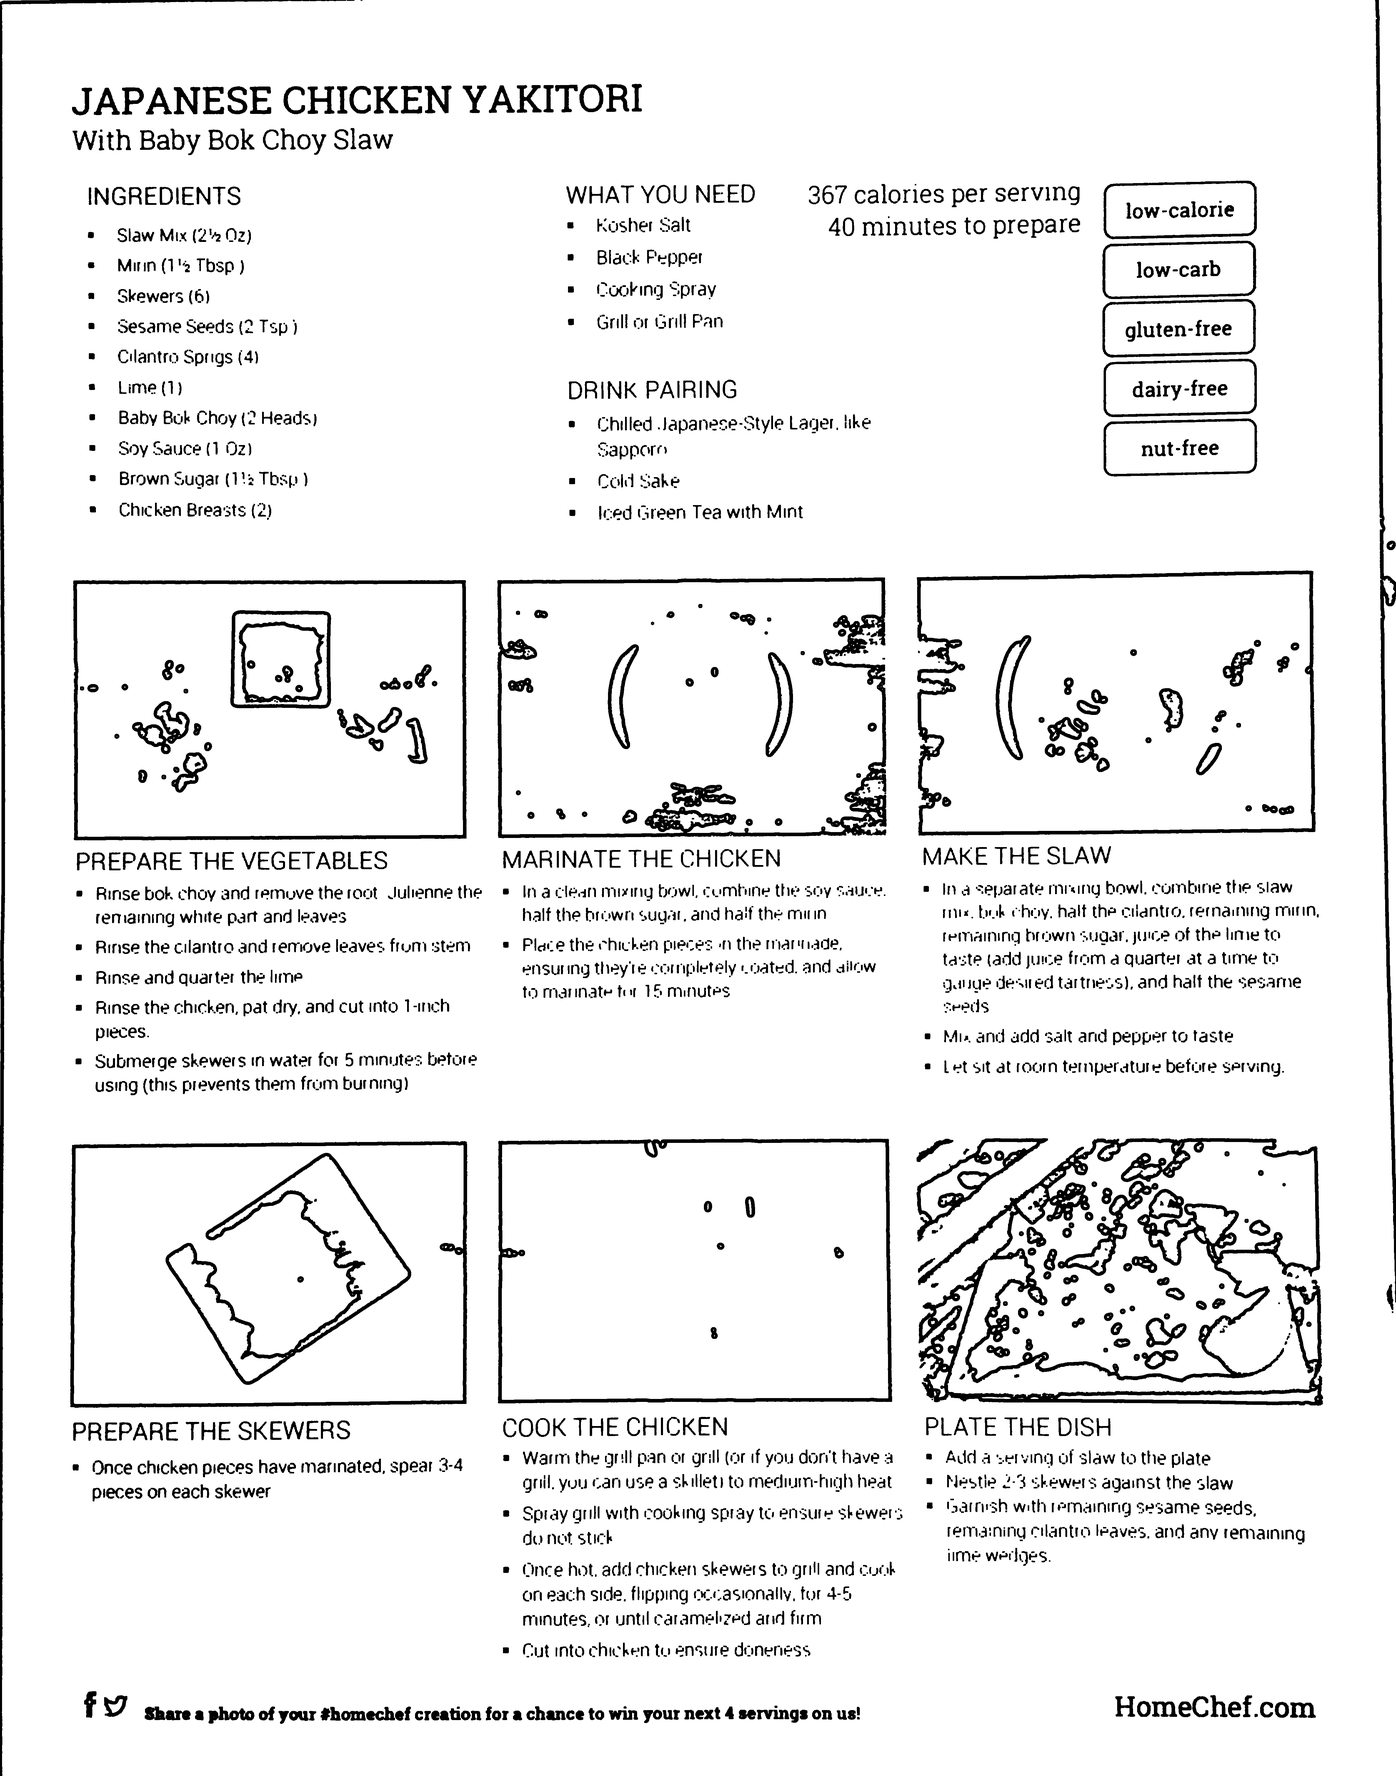
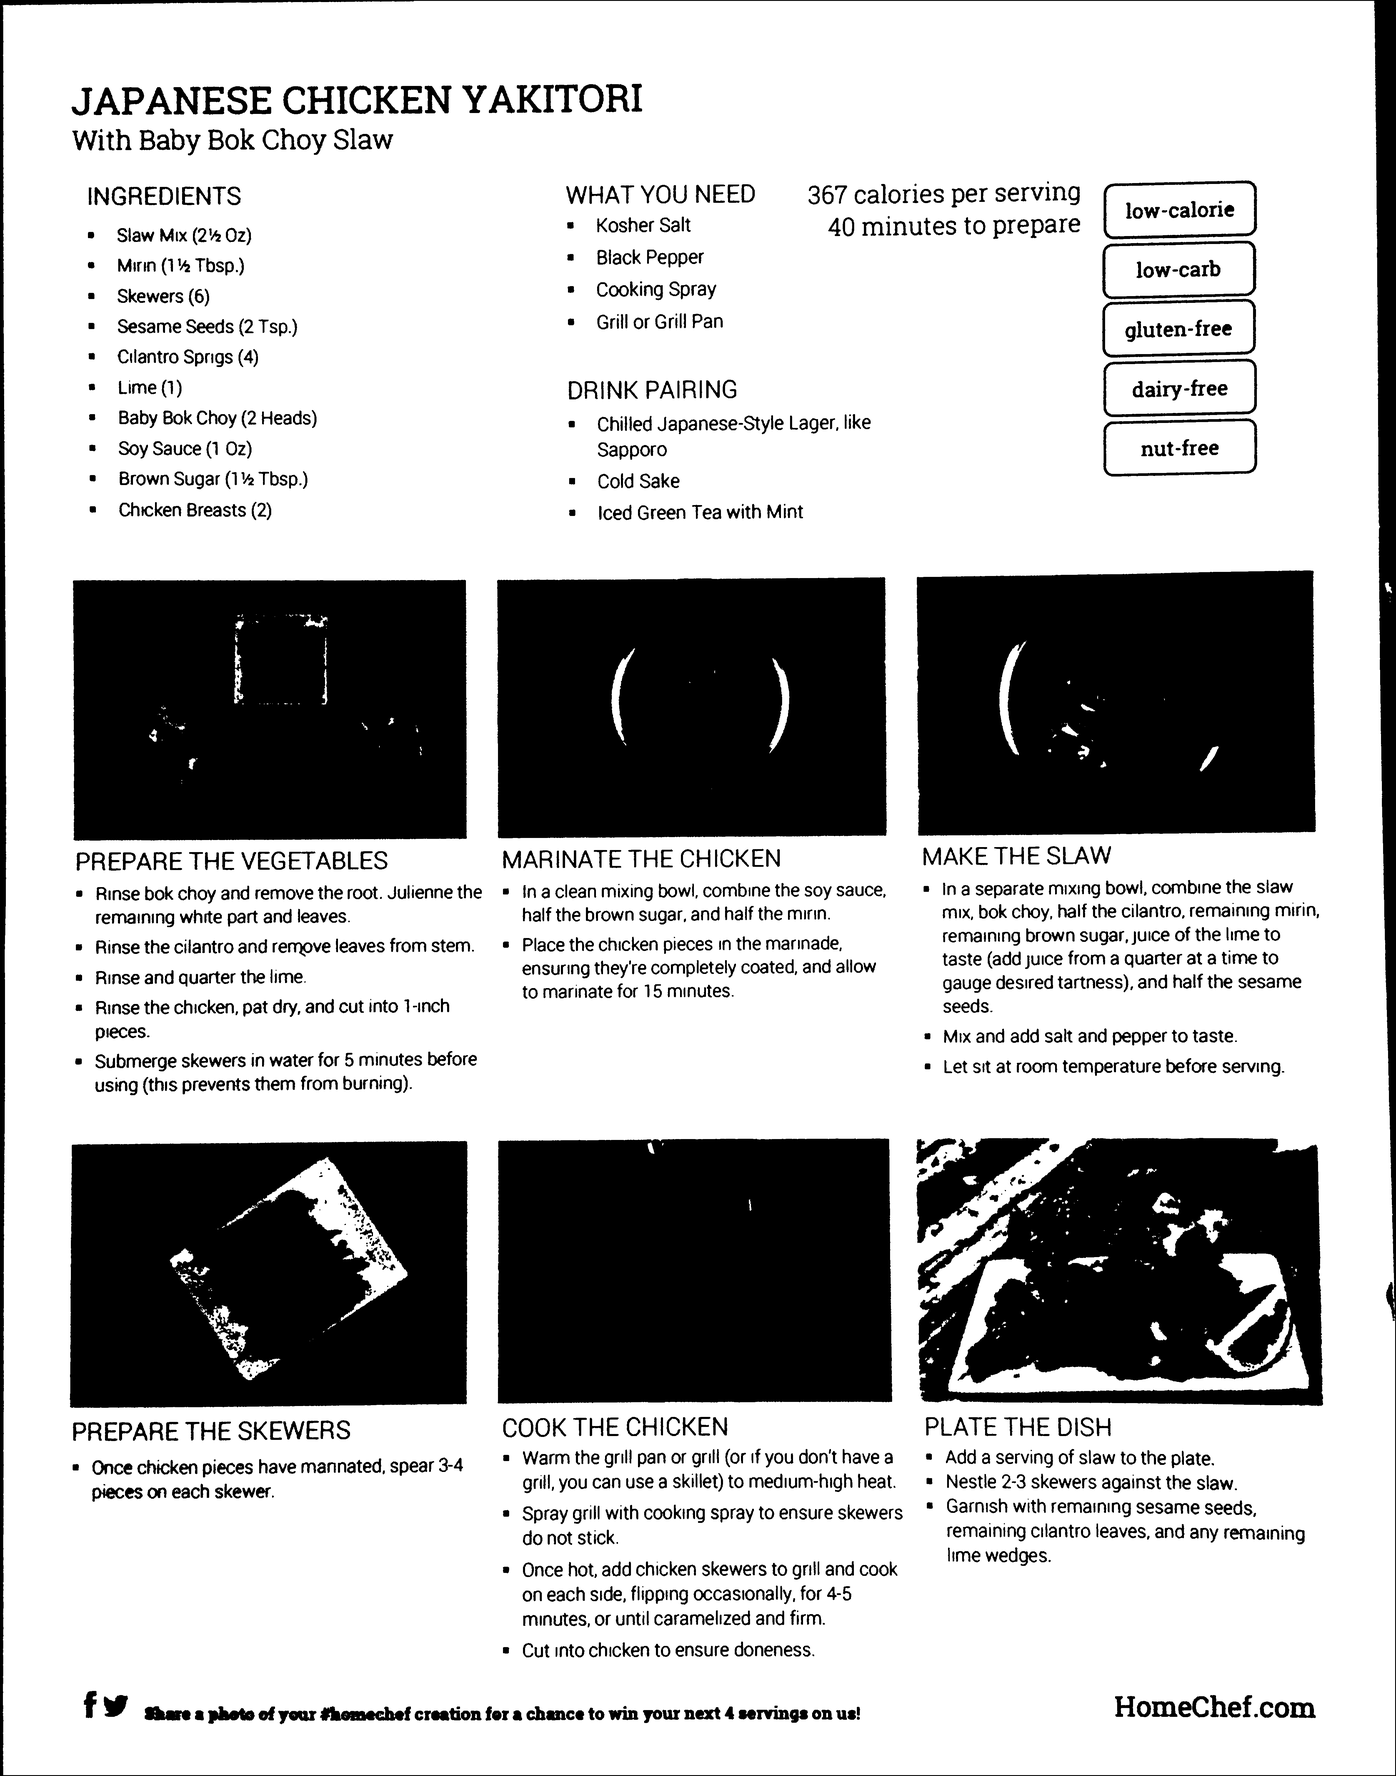
got __str__ and __repr__ looking good

Changed region(s): [[0.0312, 0.0, 1.0, 0.6543], [0.0312, 0.6231, 0.9667, 0.8101], [0.0, 0.6854, 1.0, 1.0]]

diff --git a/image_to_process.py b/image_to_process.py
@@ -7,18 +7,36 @@
 
 import cv2
 import numpy as np
-from typing import Callable
+from typing import Callable, List, Tuple, Dict, Any
+from textwrap import dedent
 
 
 def invert_colors_for_processing(processing_func:Callable) -> Callable:
     '''Decorator function to invert pixel values, call processing function, then invert pixel values back to original.'''
-    def wrapper_function(self, *args, **kwargs) -> None:
-        self.ImageData = cv2.bitwise_not(self.ImageData)
-        self.InvertedColor = True
-        processing_func(self, *args, **kwargs)
-        self.ImageData = cv2.bitwise_not(self.ImageData)
-        self.InvertedColor = False
+    def wrapper_function(image_object:object, *args, **kwargs) -> None:
+        image_object.ImageData = cv2.bitwise_not(image_object.ImageData)
+        image_object.InvertedColor = True
+        processing_func(image_object, *args, **kwargs)
+        image_object.ImageData = cv2.bitwise_not(image_object.ImageData)
+        image_object.InvertedColor = False
     return wrapper_function
+
+def add_transformation(transformation_function_name:str) -> Callable:
+    '''Decorator function to add values into the Transformations property to keep track of which Transformations have been performed on the image.'''
+    def perform_transformation(processing_func:Callable) -> Callable:
+        def wrapper_function(image_object:object, *args, **kwargs) -> None:
+            try:
+                processing_func(image_object, *args, **kwargs)
+            except Exception as e:
+                raise TransformationFailedError(str(e), '\nThe transformation failed....Run the debugger to investigate further.', image_object.ImagePath)
+            else:
+                print(transformation_function_name, args, kwargs, sep='\n')
+                image_object.Transformations = (transformation_function_name, args, kwargs)
+        return wrapper_function
+    return perform_transformation
+
+def indent(number_of_single_spaces:int=4) -> str:
+    return ' ' * number_of_single_spaces
 
 class ImageToProcess():
     '''Object representing an image file to be processed to improve readability for Tesseract OCR.'''
@@ -30,19 +48,25 @@ class ImageToProcess():
                 - image_path : path to image being processed
         '''
         self._image_path:str = image_path
-        self._image_data:cv2.typing.MatLike = cv2.imread(image_path)
+        self._image_data:List[cv2.typing.MatLike] = [cv2.imread(image_path), cv2.imread(image_path)]
         self._inverted_color:bool = False
+        self._transformations:Dict[int, Tuple[str, List[Tuple[Any]|Dict[str, Any]]]]|None = None
 
     @property
     def ImagePath(self) -> str:
         return self._image_path
 
     @property
+    def OriginalImageData(self) -> cv2.typing.MatLike:
+        '''If image is resized, then original image data will be resized to match.'''
+        return self._image_data[0]
+
+    @property
     def ImageData(self) -> cv2.typing.MatLike:
-        return self._image_data
+        return self._image_data[1]
     @ImageData.setter
-    def ImageData(self, new_data_value):
-        self._image_data = new_data_value
+    def ImageData(self, new_data_value:cv2.typing.MatLike) -> None:
+        self._image_data[1] = new_data_value
 
     @property
     def InvertedColor(self) -> bool:
@@ -51,13 +75,113 @@ class ImageToProcess():
     def InvertedColor(self, bool_value:bool) -> None:
         self._inverted_color = bool_value
 
+    @property
+    def Transformations(self) -> Dict[int, Tuple[str, List[Tuple[Any]|Dict[str, Any]]]]|None:
+        return self._transformations
+    @Transformations.setter # transformation_function_name:str='', arguments:Tuple[Any]='', keywords:Dict[str, Any]=''
+    def Transformations(self, transformation_info:Tuple[str, Tuple[Any], Tuple[str, Any]]) -> None:
+        '''
+            Adds values into the Transformations property to keep track of which Transformations have been performed on the image.
+            Arguments:
+                - transformation_info : tuple containing information about the transformation being performed
+                    - transformation_function_name :
+                    - arguments : 
+                    - keywords : 
+        '''
+        transformation_function_name:str
+        arguments:Tuple[Any]
+        keywords:Dict[str, Any]
+        transformation_function_name, arguments, keywords = transformation_info
+        if self._transformations is None:
+            self._transformations = {}
+            transformation_number = 0
+        else:
+            transformation_number = list(self._transformations.keys())[-1] + 1
+        self._transformations[transformation_number] = ( transformation_function_name , [ arguments, keywords ])
+        print(self.Transformations)
+
+    def get_transformations_string(self) -> str:
+        '''
+            FUNCTIONDOCSTRING
+            Arguments:
+                -
+        '''
+        def format_kwargs(kwargs_list:List[dict]) -> List[str]:
+            formatted_kwargs:List[str] = []
+            for kwarg_dict in kwargs_list:
+                current:List[str] = []
+                kwargs = list(kwarg_dict.keys())
+                values = list(kwarg_dict.values())
+                if len(kwargs) < 1 or len(values) < 1:
+                    current.append('None')
+                else:
+                    for i in range(len(kwargs)):
+                        kwarg_str = f'{kwargs[i]} = {values[i]}'
+                    current.append(kwarg_str)
+                formatted_kwargs.append(', '.join([kw for kw in current if kw !='None']))
+            return [kwarg_str if kwarg_str != '' else 'None' for kwarg_str in formatted_kwargs]
+        
+        def get_align_values(number_list:List[int], name_list:List[str], arg_list:List[Any], kwarg_list:List[str]) -> List[int]:
+            number_align:int = max([len(str(x)) for x in number_list])
+            name_align:int = max([len(str(x)) for x in name_list])
+            arg_align:int = max([len(str(x)) for x in arg_list])
+            kwarg_align:int = max([len(str(x)) for x in kwarg_list])
+            return [number_align, name_align, arg_align, kwarg_align]
+
+        transformation_numbers:List[int] = list(self.Transformations.keys())
+        transformation_information:list = [info for info in list(self.Transformations.values())]
+
+        transformation_function_names:List[str] = [info[0] for info in transformation_information]
+
+        transformation_args_and_kwargs:List[Tuple[Any], Dict[str, Any]] = [info[1] for info in transformation_information]
+        transformation_args:List[List[Any]] = [args_and_kwargs[0] if len(args_and_kwargs[0]) != 0 else 'None' for args_and_kwargs in transformation_args_and_kwargs]
+        transformation_kwargs:List[dict] = [args_and_kwargs[1] for args_and_kwargs in transformation_args_and_kwargs]
+        formatted_kwargs:List[str] = format_kwargs(transformation_kwargs)
+
+        number_align, name_align, arg_align, kwarg_align = get_align_values(transformation_numbers, transformation_function_names, transformation_args, formatted_kwargs)
+
+        transformation_lines = [f'{transformation_numbers[i]: <{number_align}} | {transformation_function_names[i]: <{name_align}} | arguments : {transformation_args[i]: <{arg_align}} | keywords : {formatted_kwargs[i]: <{kwarg_align}}' for i in range(len(transformation_numbers))]
+        return f'Transformations Performed:\n{'\n'.join(transformation_lines)}'
+
+
     def __str__(self) -> str:
-        return f'\n    Image Path : {self.ImagePath}\n'
+        string_representation = f'''\
+Image Path : {self.ImagePath}
+    {self.ImageData.shape=}
+    {self.ImageData.dtype=}
+    {self.OriginalImageData.shape=}
+    {self.OriginalImageData.dtype=}
+
+{self.get_transformations_string()}'''
+        return string_representation
 
     def __repr__(self) -> str:
-        return f'\n    Image Path : {self.ImagePath}\n'
+        string_representation = f'''\
+Image Path : {self.ImagePath}
+    {self.ImageData.shape=}
+    {self.ImageData.dtype=}
+    {self.OriginalImageData.shape=}
+    {self.OriginalImageData.dtype=}
 
-    def shrink_image_size(self, scale_x:float=.75, scale_y:float=.75) -> None:
+{self.get_transformations_string()}'''
+        return string_representation
+
+    def reset_image_data(self):
+        self._image_data[0] = cv2.imread(self.ImagePath)
+        self.ImageData = cv2.imread(self.ImagePath)
+        self.InvertedColor = False
+        self.Transformations = None
+
+    def display_image(self, title:str|None=None, image:cv2.typing.MatLike|None=None) -> None:
+        if title is None:
+            title = self.ImagePath
+        if image is None:
+            image:cv2.typing.MatLike = self.ImageData
+        cv2.imshow(title, image)
+        cv2.waitKey(0)
+
+    @add_transformation('shrink image')
+    def shrink_image(self, scale_x:float=.75, scale_y:float=.75) -> None:
         '''
             Shrinks an image to a scale between (0, 1) on the x and y axis. Recommended to input the same scale for x and y to maintain image integrity.
             Arguments:
@@ -68,8 +192,10 @@ class ImageToProcess():
             raise InvalidScaleArgumentsError("Scale cannot be greater than or equal to 1.0!", self.ImagePath)
         else:
             self.ImageData = cv2.resize(self.ImageData, None, fx=scale_x, fy=scale_y, interpolation=cv2.INTER_AREA)
+            self._image_data[0] = cv2.resize(self.OriginalImageData, None, fx=scale_x, fy=scale_y, interpolation=cv2.INTER_AREA)
 
-    def enlarge_image_size(self, scale_x:float=1.5, scale_y:float=1.5) -> None:
+    @add_transformation('enlarge image')
+    def enlarge_image(self, scale_x:float=1.5, scale_y:float=1.5) -> None:
         '''
             Enlarges an image to a scale between (0, 1) on the x and y axis. Recommended to input the same scale for x and y to maintain image integrity.
             Arguments:
@@ -80,10 +206,13 @@ class ImageToProcess():
             raise InvalidScaleArgumentsError("Scale cannot be less than or equal to 1.0!", self.ImagePath)
         else:
             self.ImageData = cv2.resize(self.ImageData, None, fx=scale_x, fy=scale_y, interpolation=cv2.INTER_CUBIC)
+            self._image_data[0] = cv2.resize(self.OriginalImageData, None, fx=scale_x, fy=scale_y, interpolation=cv2.INTER_CUBIC)
 
+    @add_transformation('convert to grayscale')
     def convert_to_grayscale(self) -> None:
         self.ImageData = cv2.cvtColor(self.ImageData, cv2.COLOR_BGR2GRAY)
 
+    @add_transformation('standard blur')
     def standard_blur(self, blur_kernel_size:int=3) -> None:
         '''
             Replaces a pixels value with the average of all pixels under the area (ksize, ksize).
@@ -97,6 +226,7 @@ class ImageToProcess():
         else:
             self.ImageData = cv2.blur(self.ImageData, (blur_kernel_size, blur_kernel_size))
 
+    @add_transformation('gaussian blur')
     def gaussian_blur(self, blur_kernel_size:int=3, sigma_space:int=0) -> None:
         '''
             Reduces gaussian noise and reduces image detail. DOES NOT PRESERVE EDGES!
@@ -113,6 +243,7 @@ class ImageToProcess():
         else:
             self.ImageData = cv2.GaussianBlur(self.ImageData, (blur_kernel_size, blur_kernel_size), sigma_space)
 
+    @add_transformation('median blur')
     def median_blur(self, blur_kernel_size:int=3) -> None:
         '''
             ! BEST OPTION FOR SPEED AND EDGE PRESERVATION !
@@ -128,6 +259,7 @@ class ImageToProcess():
         else:
             self.ImageData = cv2.medianBlur(self.ImageData, blur_kernel_size)
 
+    @add_transformation('bilateral filter blur')
     def bilateral_filter_blur(self, blur_kernel_size:int=15, sigma_color:int=75, sigma_space:int=75) -> None:
         '''
             ! GOOD OPTION FOR EDGE PRESERVATION, BUT LACKS IN SPEED !
@@ -145,6 +277,7 @@ class ImageToProcess():
         else:
             self.ImageData = cv2.bilateralFilter(self.ImageData, blur_kernel_size, sigma_color, sigma_space)
 
+    @add_transformation('simple threshold')
     def simple_threshold(self, threshold_value:int=127, color_if_less_than_threshold:int=255) -> None:
         '''
             If the pixel value is greater than the threshold, it becomes black. If less, it becomes color_if_less_than_threshold.
@@ -152,11 +285,12 @@ class ImageToProcess():
                 - threshold_value : if average value of pixel exceeds this, it becomes black.
                 - color_if_less_than_threshold : grayscale value to set pixel if less than threshold_value
         '''
-        if threshold_value >= 175:
-            raise InvalidThresholdArgumentsError('Threshold value cannot be greater than or equal to 175!', self.ImagePath)
+        if threshold_value >= 250:
+            raise InvalidThresholdArgumentsError('Threshold value cannot be greater than or equal to 250!', self.ImagePath)
         else:
             self.ImageData = cv2.threshold(self.ImageData, threshold_value, color_if_less_than_threshold, cv2.THRESH_BINARY)[1]
 
+    @add_transformation('adaptive threshold')
     def adaptive_threshold(self, color_if_less_than_threshold:int=255, kernel_size:int=31, constant:int=2) -> None:
         '''
             Allows an algorithm to calculate the threshold for small regions of the image.
@@ -172,6 +306,7 @@ class ImageToProcess():
         else:
             self.ImageData = cv2.adaptiveThreshold(self.ImageData, color_if_less_than_threshold, cv2.ADAPTIVE_THRESH_GAUSSIAN_C, cv2.THRESH_BINARY, kernel_size, constant)
 
+    @add_transformation('otsu threshold')
     def otsu_threshold(self) -> None:
         '''
             ! WORKS WELL WITH BIMODAL IMAGES, BUT MAY FAIL TO BINARIZE IMAGES THAT ARE NOT BIMODAL !
@@ -179,6 +314,7 @@ class ImageToProcess():
         '''
         self.ImageData = cv2.threshold(self.ImageData, 0, 255, cv2.THRESH_BINARY + cv2.THRESH_OTSU)[1]
 
+    @add_transformation('dilate')
     @invert_colors_for_processing
     def dilate(self, kernel_size:int=5, iterations:int=1) -> None:
         '''
@@ -200,6 +336,7 @@ class ImageToProcess():
             kernel = np.ones((kernel_size, kernel_size), np.uint8)
             self.ImageData = cv2.dilate(self.ImageData, kernel, iterations=iterations)
 
+    @add_transformation('erode')
     @invert_colors_for_processing
     def erode(self, kernel_size:int=5, iterations:int=1) -> None:
         '''
@@ -221,6 +358,7 @@ class ImageToProcess():
             kernel = np.ones((kernel_size, kernel_size), np.uint8)
             self.ImageData = cv2.erode(self.ImageData, kernel, iterations=iterations)
 
+    @add_transformation('open pixels (erode then dilate)')
     @invert_colors_for_processing
     def open_pixels(self, kernel_size:int=3) -> None:
         '''
@@ -238,6 +376,7 @@ class ImageToProcess():
             kernel = np.ones((kernel_size, kernel_size), np.uint8)
             self.ImageData = cv2.morphologyEx(self.ImageData, cv2.MORPH_OPEN, kernel)
 
+    @add_transformation('close pixels (dilate then erode)')
     @invert_colors_for_processing
     def close_pixels(self, kernel_size:int=3) -> None:
         '''
@@ -254,6 +393,38 @@ class ImageToProcess():
         else:
             kernel = np.ones((kernel_size, kernel_size), np.uint8)
             self.ImageData = cv2.morphologyEx(self.ImageData, cv2.MORPH_CLOSE, kernel)
+
+    @add_transformation('draw contours')
+    def draw_contours(self, contour_area_threshold:int=1000) -> None:
+
+        self.enlarge_image_size(scale_x=2, scale_y=2)
+        self.convert_to_grayscale()
+        self.median_blur()
+        self.simple_threshold(threshold_value=170, color_if_less_than_threshold=255)
+        self.open_pixels()
+        self.otsu_threshold()
+
+        self.display_image()
+
+        potential_images:list[cv2.typing.MatLike] = []
+        contours = cv2.findContours(self.ImageData, cv2.RETR_EXTERNAL, cv2.CHAIN_APPROX_NONE)[0]
+        filtered_contours = [contour for contour in contours if cv2.contourArea(contour) > contour_area_threshold]
+        for contour in filtered_contours:
+            x, y, w, h = cv2.boundingRect(contour)
+            aspect_ratio = float(w) / h
+            if 0.9 <= aspect_ratio <=1.1:
+                potential_images.append(contour)
+        self.reset_image_data()
+        self.convert_to_grayscale()
+        mask = np.zeros_like(self.ImageData)
+        for contour in potential_images:
+            x, y, w, h = cv2.boundingRect(contour)
+            cv2.rectangle(self.ImageData, (x, y), (x + w, y + h), 255, -1)
+
+        masked_image = cv2.bitwise_and(self.OriginalImageData, self.ImageData, mask=mask)
+
+        self.display_image('masked', masked_image)
+        # self.ImageData = cv2.drawContours(self.ImageData, contours, -1, (0, 255, 0), 3)
 
 # error handling definitions
 
@@ -296,7 +467,7 @@ class InvalidBlurArgumentsError(Exception):
         super().__init__(formatted_error_message)
 
 class InvalidThresholdArgumentsError(Exception):
-    '''Raised when the threshold is greater than or equal to 175 or the size of neighborhood is greater than or equal to 45 in an adaptive threshold.'''
+    '''Raised when the threshold is greater than or equal to 250 or the size of neighborhood is greater than or equal to 45 in an adaptive threshold.'''
     def __init__(self, error_message:str, image_to_process_path:ImageToProcess.ImagePath) -> None:
         '''
             FUNCTIONDOCSTRING
@@ -319,18 +490,21 @@ class InvalidDilateOrErodeArguments(Exception):
         formatted_error_message = format_exception_new_lines(self, error_message, image_to_process_path)
         super().__init__(formatted_error_message)
 
+class TransformationFailedError(Exception):
+    def __init__(self, original_error_message:str, error_message:str, image_to_process_path:ImageToProcess.ImagePath) -> None:
+        '''
+            FUNCTIONDOCSTRING
+            Arguments:
+                - original_error_message : error message from the origin error (except Error as e)
+                - custom_error_message : string that contains \\n for each new line followed by desired whitespace. Ex : "Blur kernel size cannot be greater than or equal to 10!\\nAnything greater than 10 will result in an image quality that is too poor.\\nTypically a smaller value will produce better results."
+                - image_to_process_path : ImagePath property of ImageToProcess
+        '''
+        formatted_custom_error_message = format_exception_new_lines(self, error_message, image_to_process_path)
+        super().__init__(original_error_message + formatted_custom_error_message)
+
 def main():
     test = ImageToProcess(image_path='recipe_card.jpeg')
-    test.enlarge_image_size(scale_x=2, scale_y=2)
-    test.convert_to_grayscale()
-    test.median_blur()
-    test.otsu_threshold()
-    test.adaptive_threshold()
-    test.erode()
-    test.dilate()
-    cv2.imshow('test', test.ImageData)
-    cv2.waitKey(0)
-    cv2.imwrite('dilate.png', test.ImageData)
+    print(test)
 
 
 if __name__ == "__main__":
